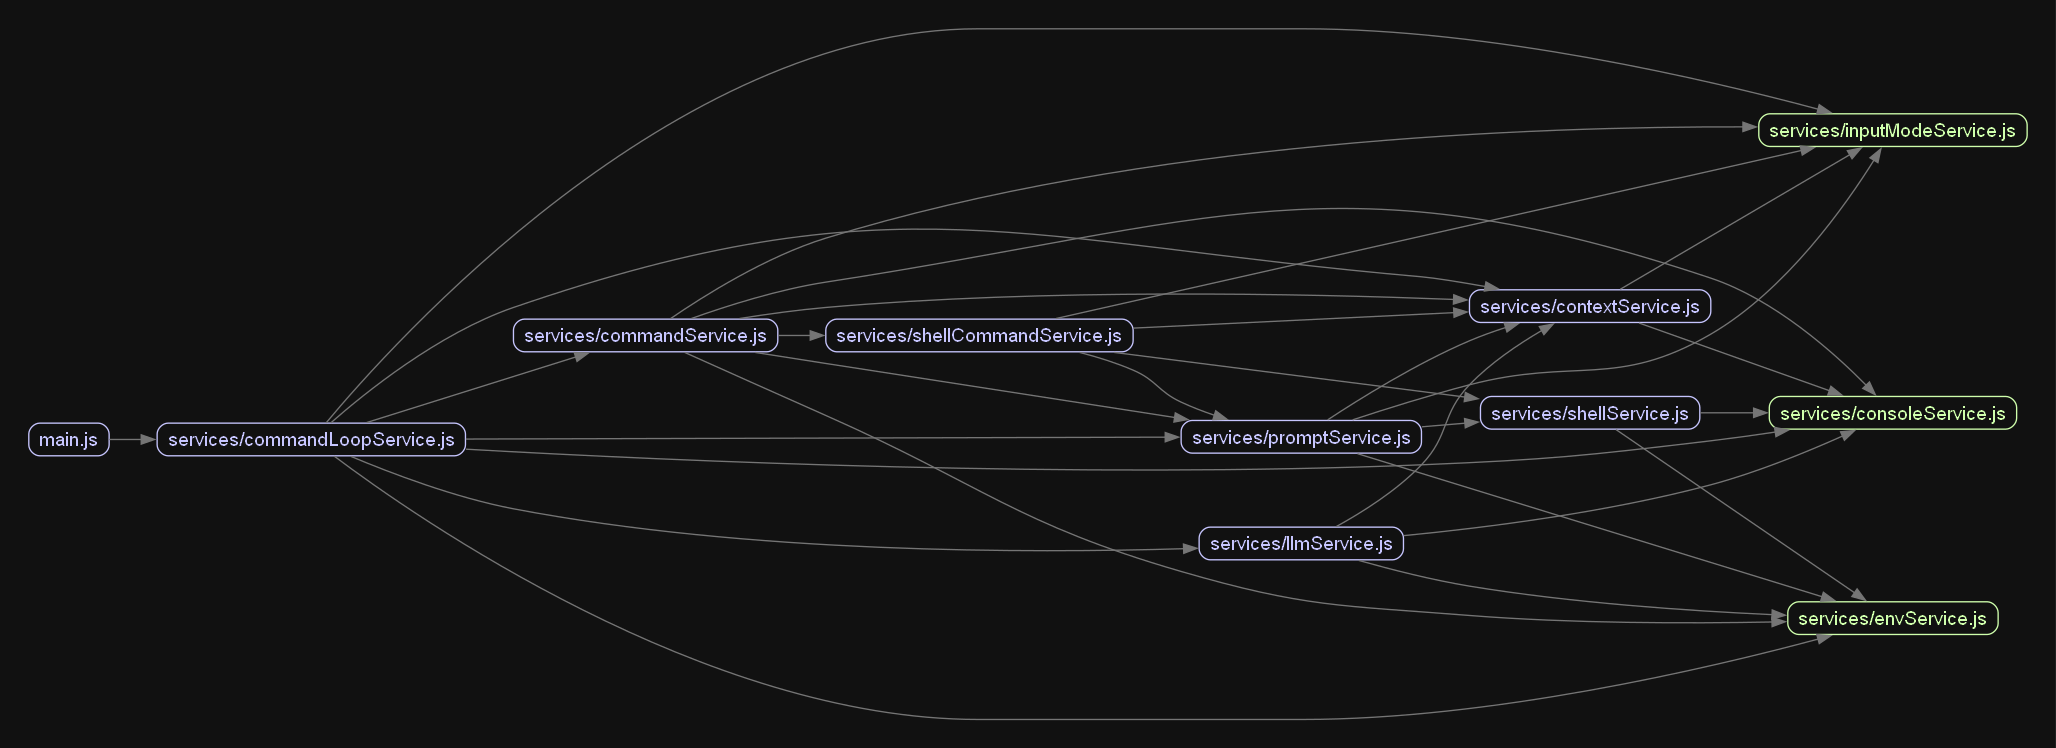
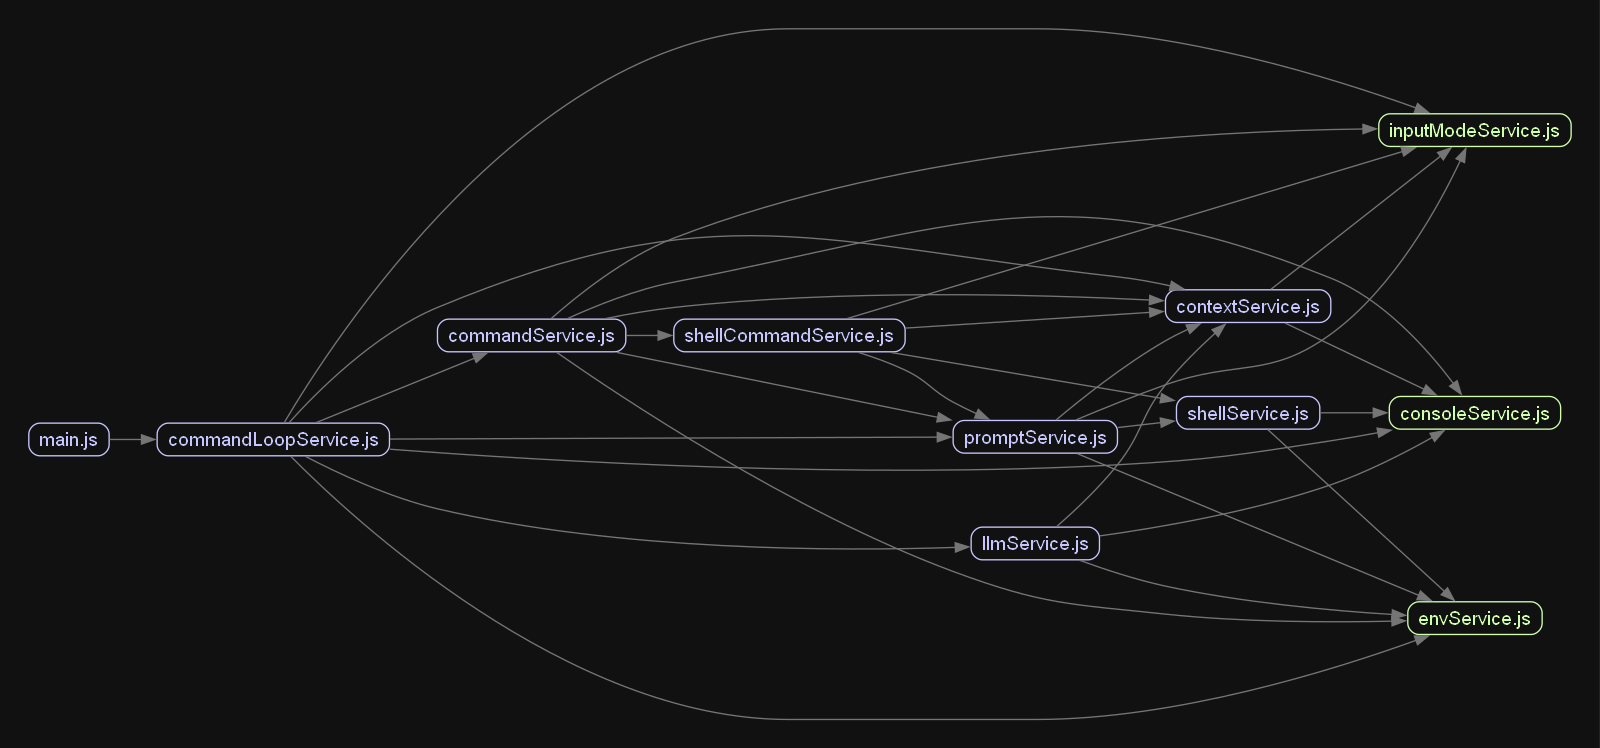
Moved all code into src directory

diff --git a/src/main.ts b/src/main.ts
@@ -1,5 +1,5 @@
 import dotenv from "dotenv";
-import * as commandLoopService from "./services/commandLoopService.js";
+import * as commandLoopService from "./commandLoopService.js";
 
 dotenv.config();
 
